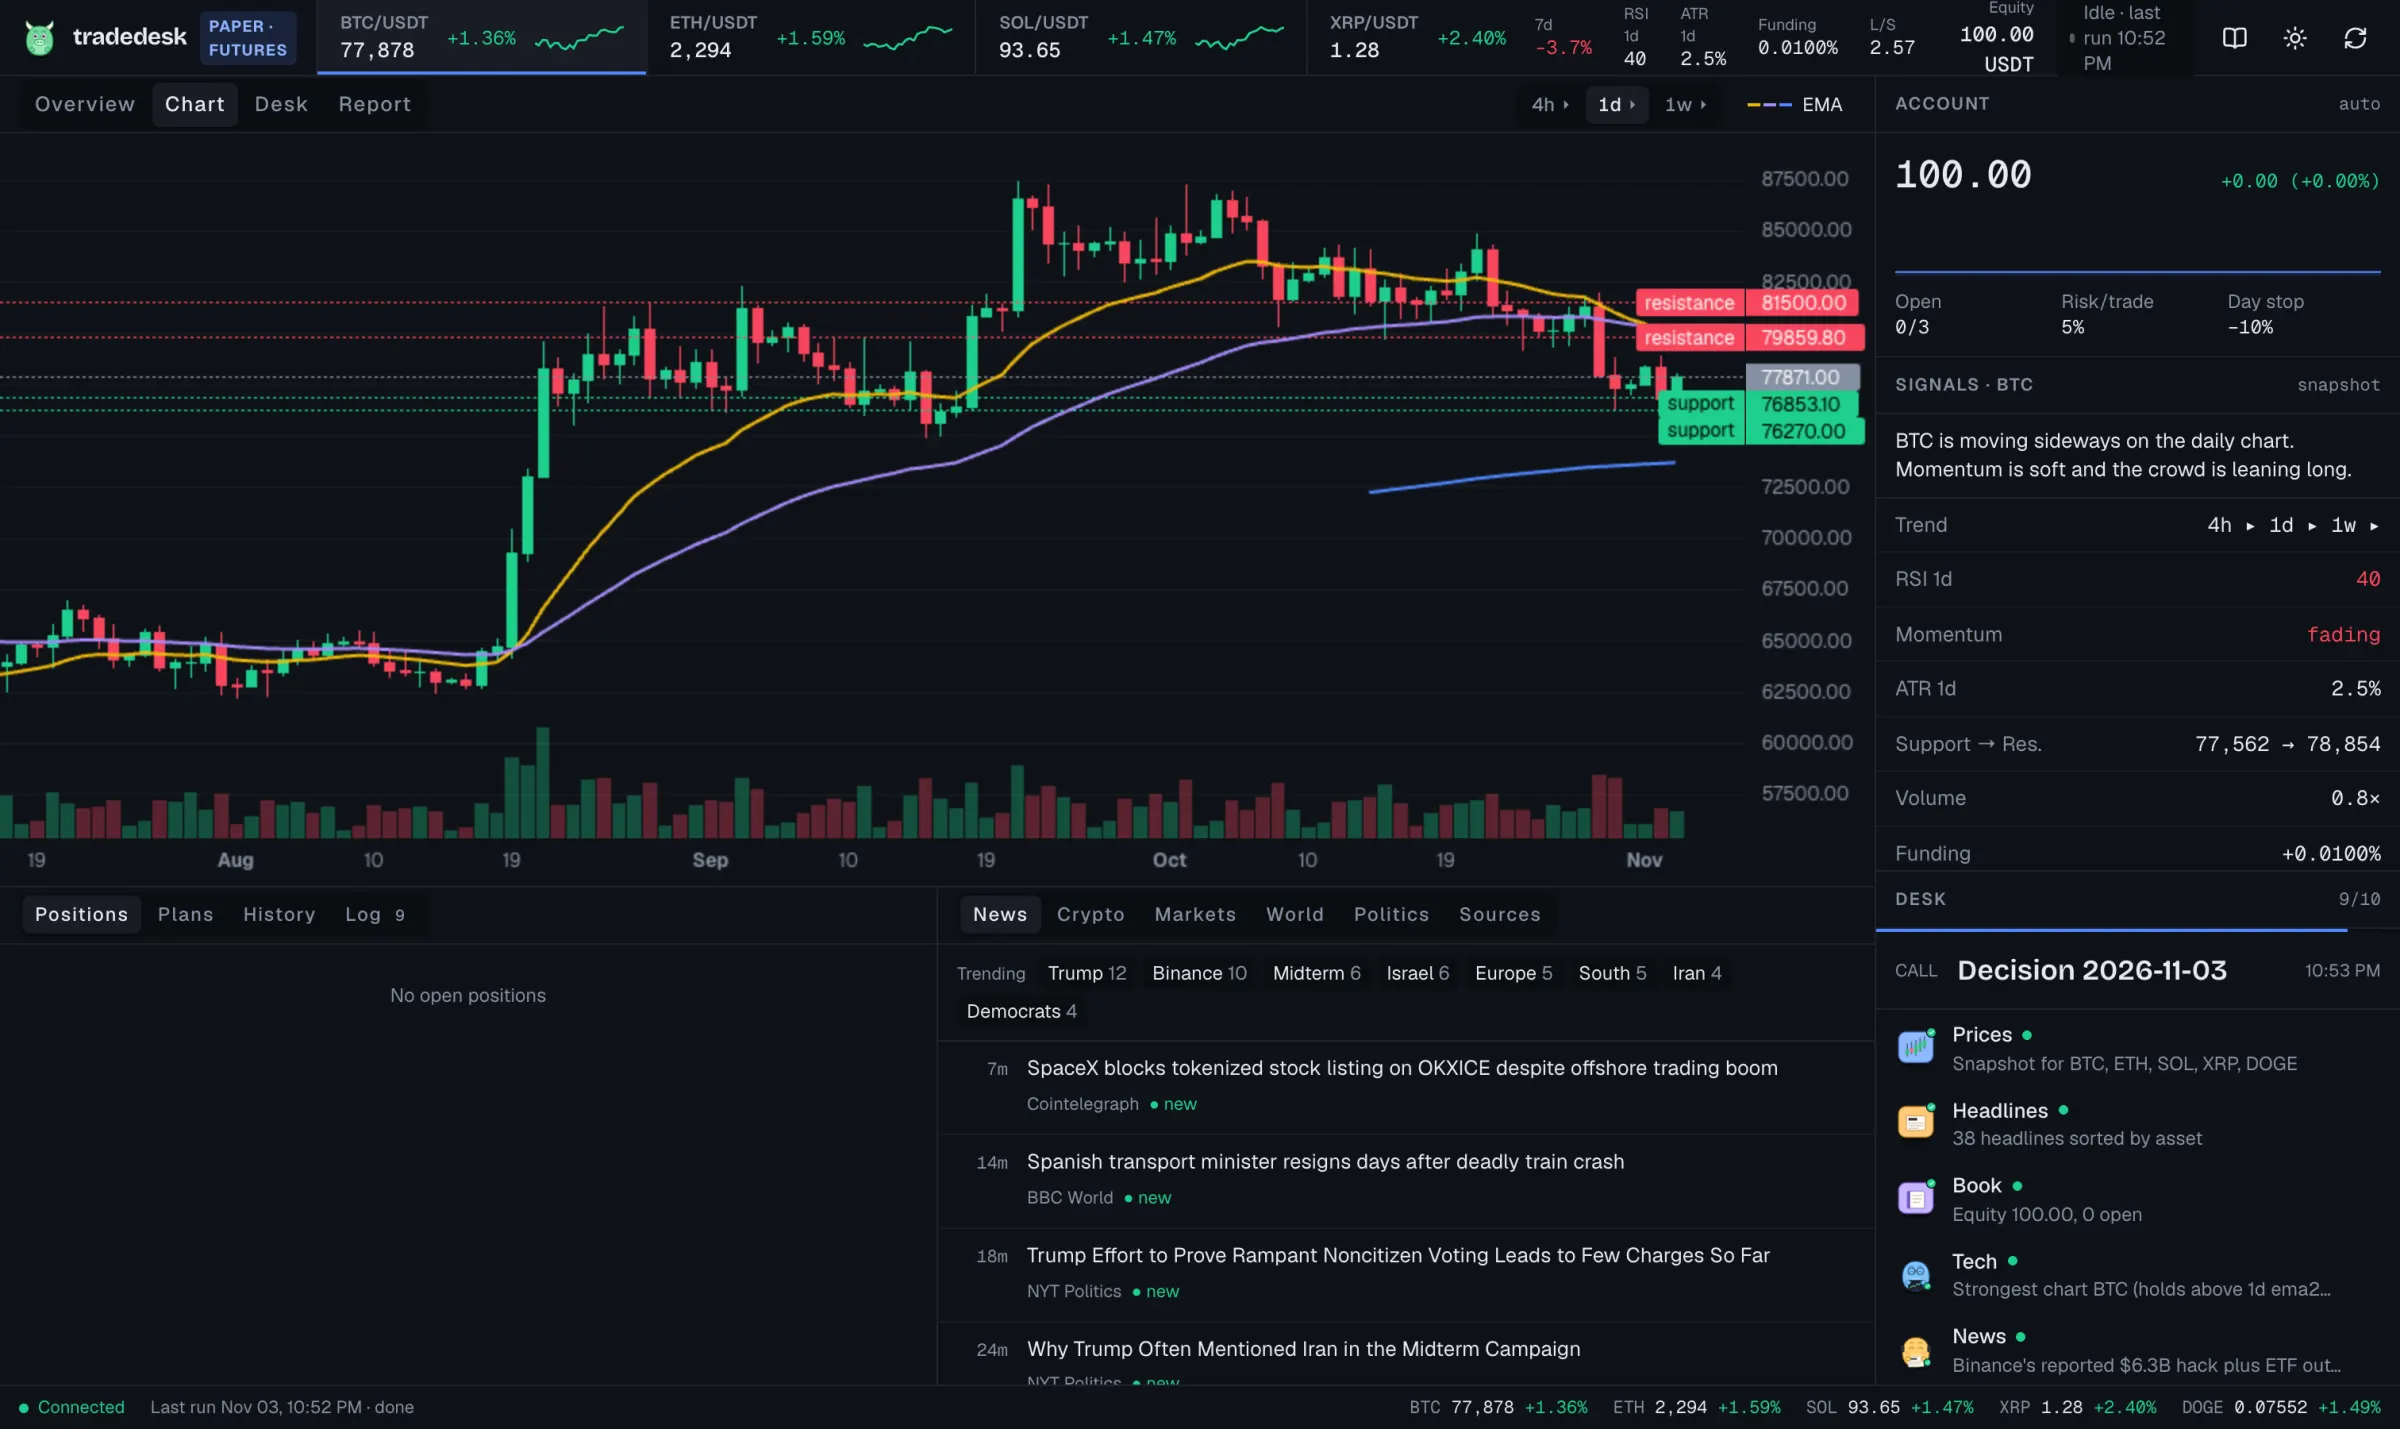
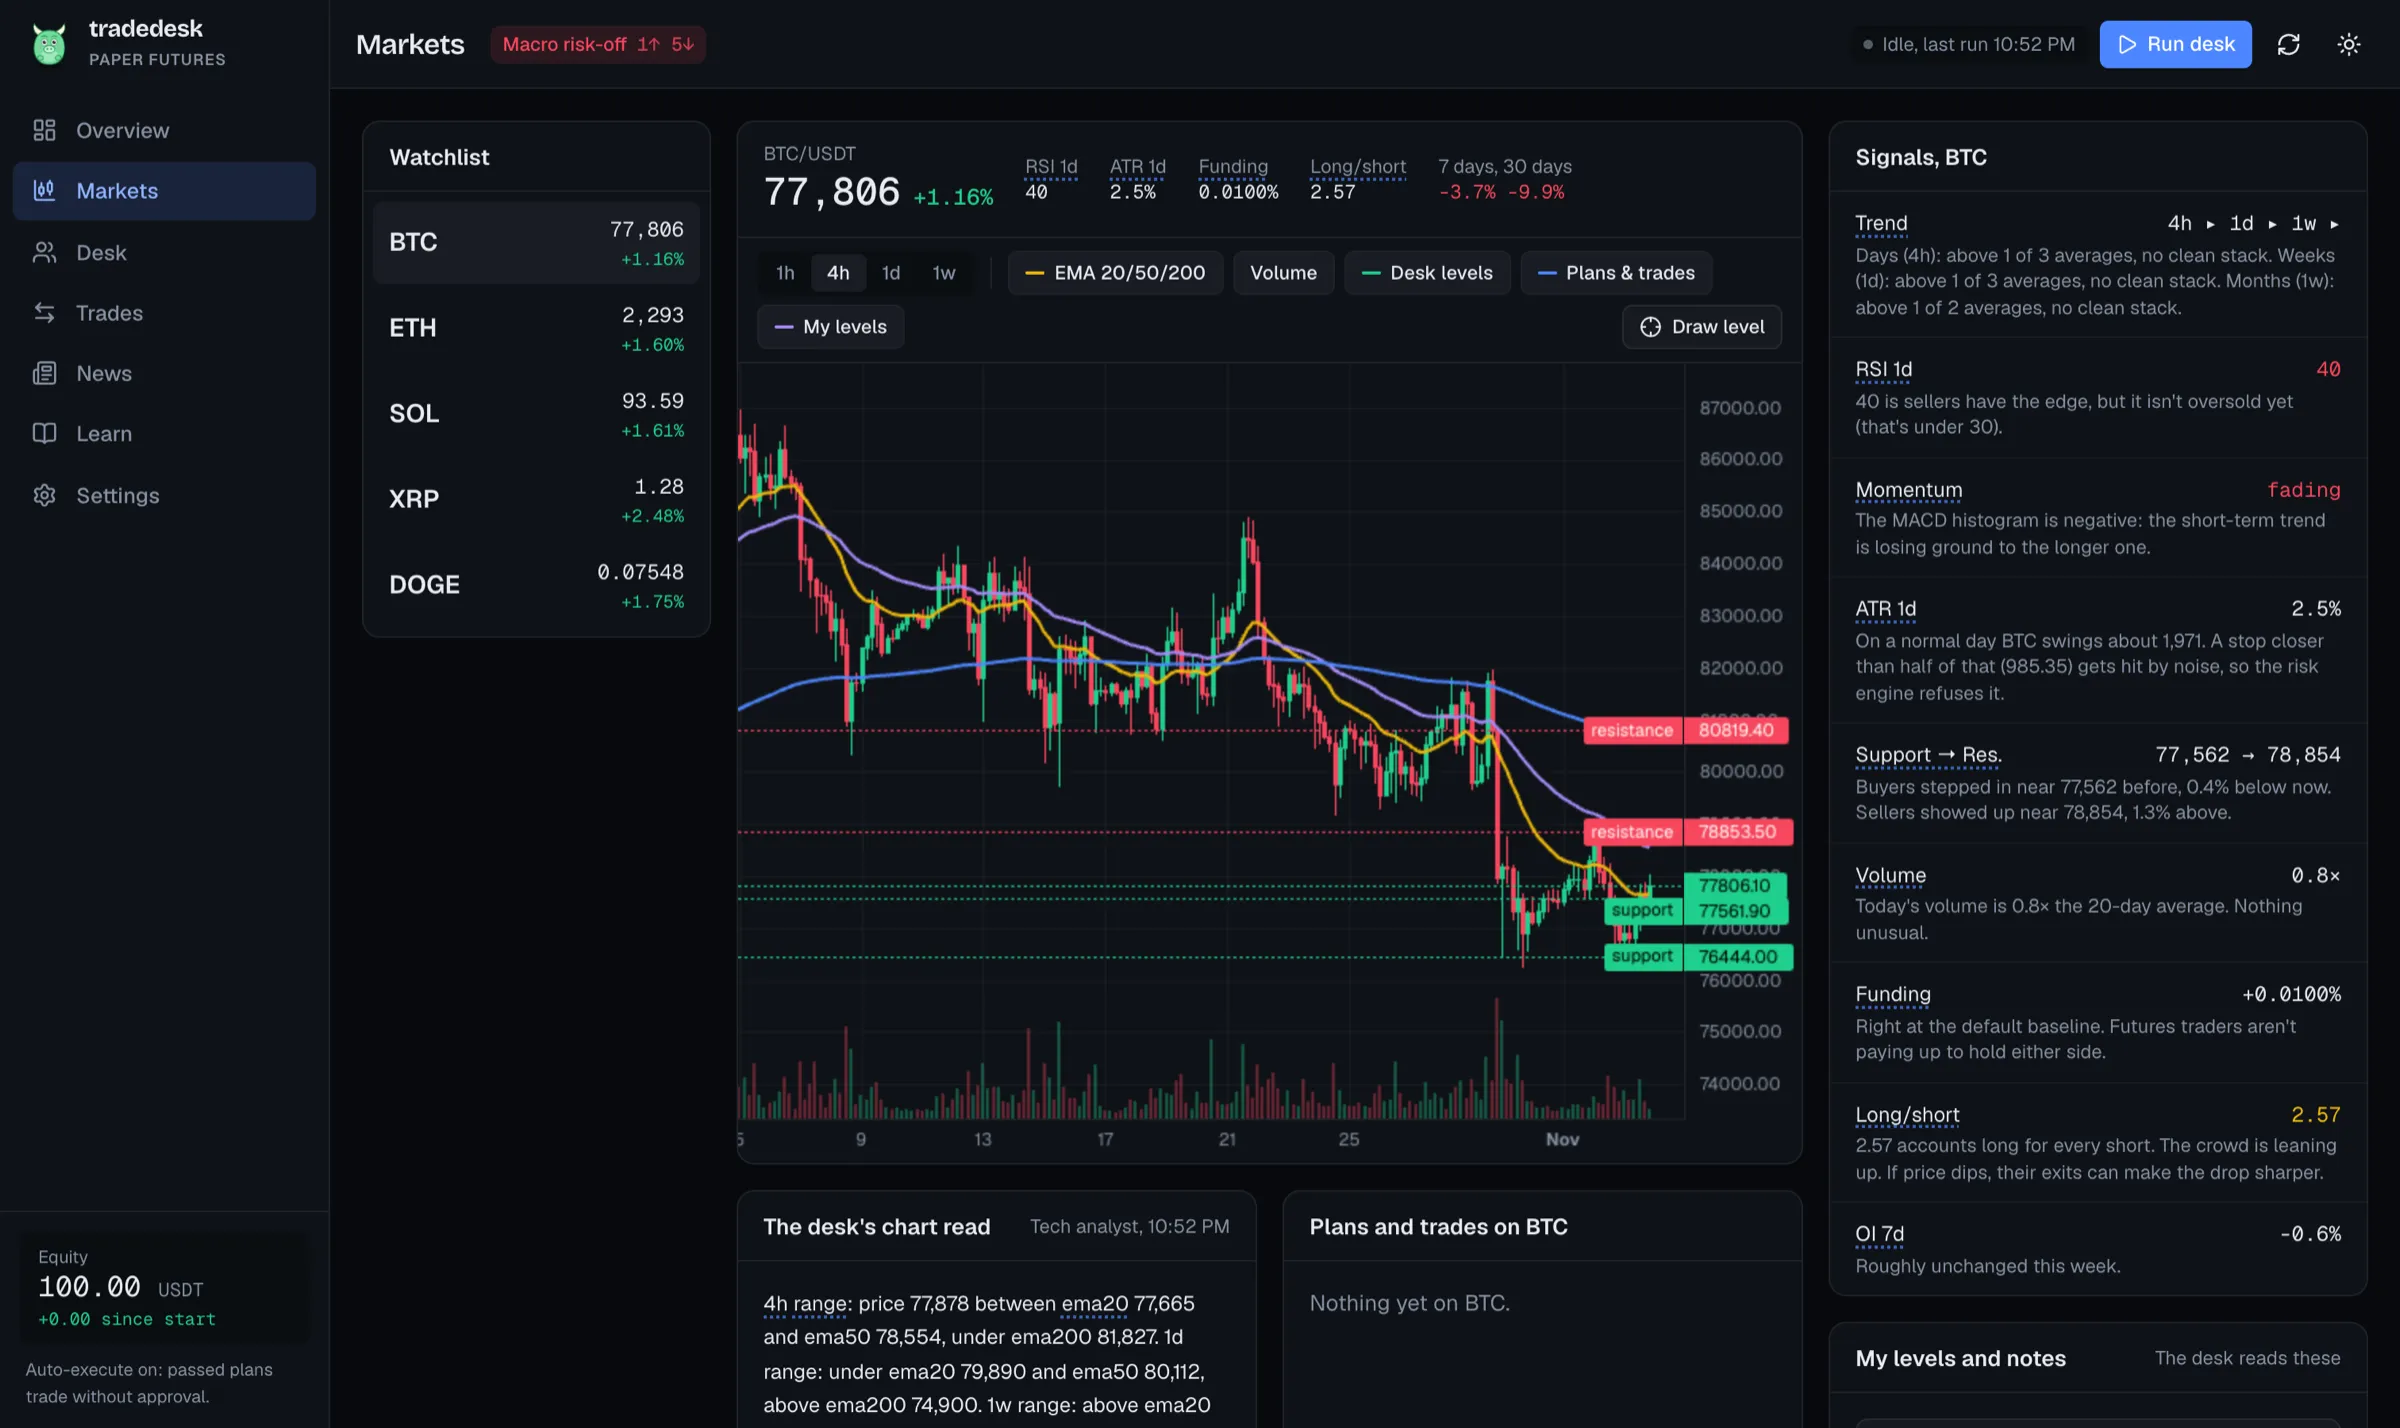
Site screenshots from the new dashboard

diff --git a/docs/index.html b/docs/index.html
@@ -274,7 +274,7 @@
       <p class="reassure">Starts in paper mode. No exchange account or API keys needed to try it.</p>
 
       <figure class="shot">
-        <img src="overview.webp" width="2400" height="1428" alt="The tradedesk dashboard. A macro regime panel reads Risk-off, with tiles for the S&amp;P 500, Nasdaq, US dollar, 10-year yield, yield curve, VIX, oil, Fed balance sheet and stablecoin supply, each marked as a headwind or tailwind for crypto. On the right are account equity, BTC signals and the progress of today's run. Below are positions and a news feed." fetchpriority="high">
+        <img src="overview.webp" width="2400" height="1428" alt="The tradedesk Overview page. The macro backdrop for crypto reads Risk-off, next to crypto market cap, volume, Bitcoin dominance and Fear and Greed. Below are nine drivers such as the S&amp;P 500, the US dollar, the 10-year yield and stablecoin supply, each marked as a headwind or tailwind, with a Bitcoin against S&amp;P 500 chart. On the right are the desk&#39;s latest call, a box to send a note to the desk, and headlines." fetchpriority="high">
       </figure>
       <p class="caption">The overview tab during a paper run. Nine macro series, each marked as a tailwind or headwind for crypto, before any agent says a word.</p>
     </div>
@@ -304,7 +304,7 @@
           <li><b>You approve or reject.</b>What passes waits in the dashboard. Approving sends it to Binance with the stop attached.</li>
         </ol>
         <figure class="shot inline">
-          <img src="desk.webp" width="2400" height="1428" loading="lazy" alt="The Desk tab: data sources feed a technical and a news analyst, then a bull and a bear, then the portfolio manager, then the risk engine and the exchange. Every step shows done." >
+          <img src="desk.webp" width="2400" height="1428" loading="lazy" alt="The Desk page: data feeds pass to a chart analyst and a news analyst, then a bull and a bear, then the portfolio manager, the risk engine and the exchange, drawn as characters. Below, every agent has a card with its latest output, next to a box for notes to the desk." >
         </figure>
       </div>
     </div>
@@ -363,7 +363,7 @@
       <h2>See the market, the argument and the result in one place.</h2>
       <p class="sub">A local web page on <code>127.0.0.1:8420</code>. Nothing is hosted anywhere.</p>
       <figure class="shot inline">
-        <img src="chart.webp" width="2400" height="1428" loading="lazy" alt="The Chart tab: a daily BTC/USDT candlestick chart with two EMAs, volume bars and support and resistance levels marked on the right axis, next to the account and signals panel.">
+        <img src="chart.webp" width="2400" height="1428" loading="lazy" alt="The Markets page: a 4-hour BTC/USDT candlestick chart with three moving averages, volume, and support and resistance lines from the desk, plus toolbar toggles and a Draw level button. A watchlist sits on the left and plain-language signals on the right.">
       </figure>
       <div class="features">
         <div><h3>Macro regime</h3><p>S&amp;P 500, Nasdaq, dollar, 10-year yield, yield curve, VIX, oil, the Fed balance sheet and stablecoin supply, summed up as risk-on or risk-off.</p></div>
